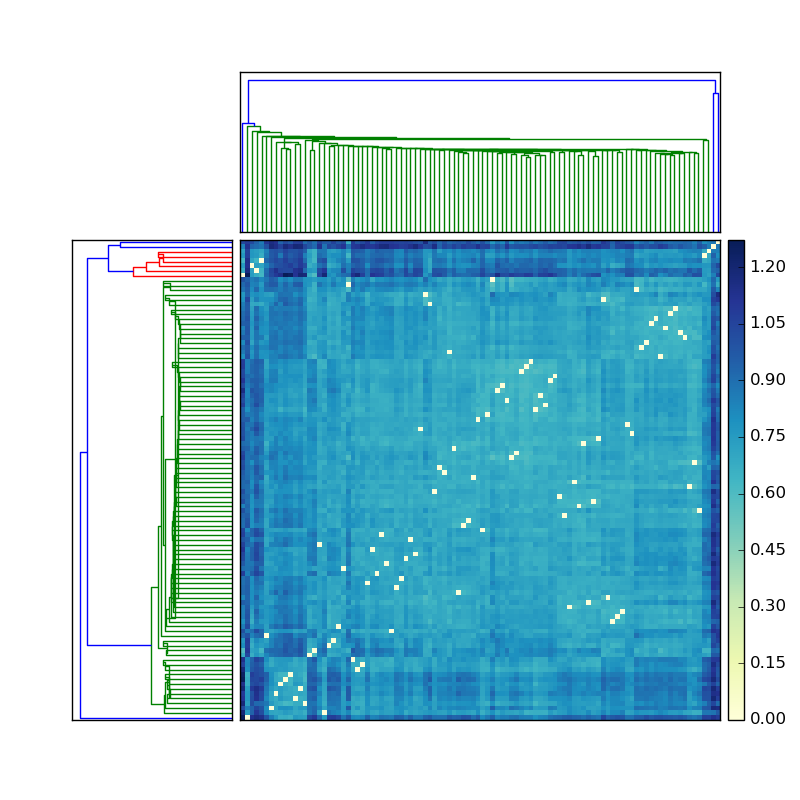
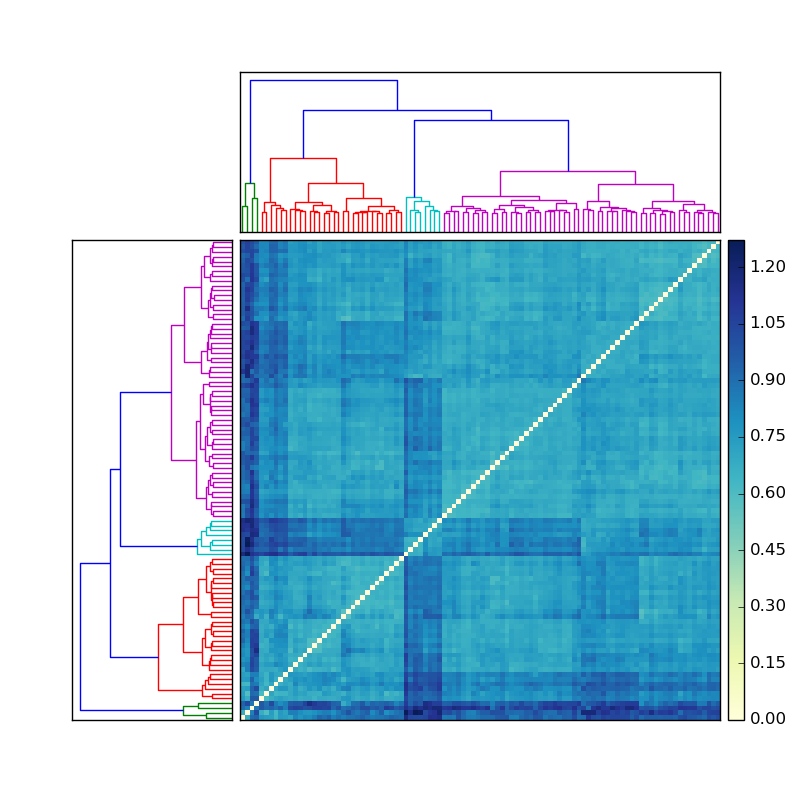
ward linkage

Changed region(s): [[0.0938, 0.0938, 0.9062, 0.9062], [0.5938, 0.5312, 0.6562, 0.5938], [0.8125, 0.4375, 0.8438, 0.4688]]

diff --git a/dendro.py b/dendro.py
@@ -17,14 +17,14 @@ D = fill_lower_triangle(dist_matx)
 # # Compute and plot first dendrogram.
 fig = pylab.figure(figsize=(8,8))
 ax1 = fig.add_axes([0.09,0.1,0.2,0.6])
-Y = sch.linkage(D, method='centroid')
+Y = sch.linkage(D, method='ward')
 Z1 = sch.dendrogram(Y, orientation='right')
 ax1.set_xticks([])
 ax1.set_yticks([])
 
 # Compute and plot second dendrogram.
 ax2 = fig.add_axes([0.3,0.71,0.6,0.2])
-Y = sch.linkage(D, method='single')
+Y = sch.linkage(D, method='ward')
 Z2 = sch.dendrogram(Y)
 ax2.set_xticks([])
 ax2.set_yticks([])
